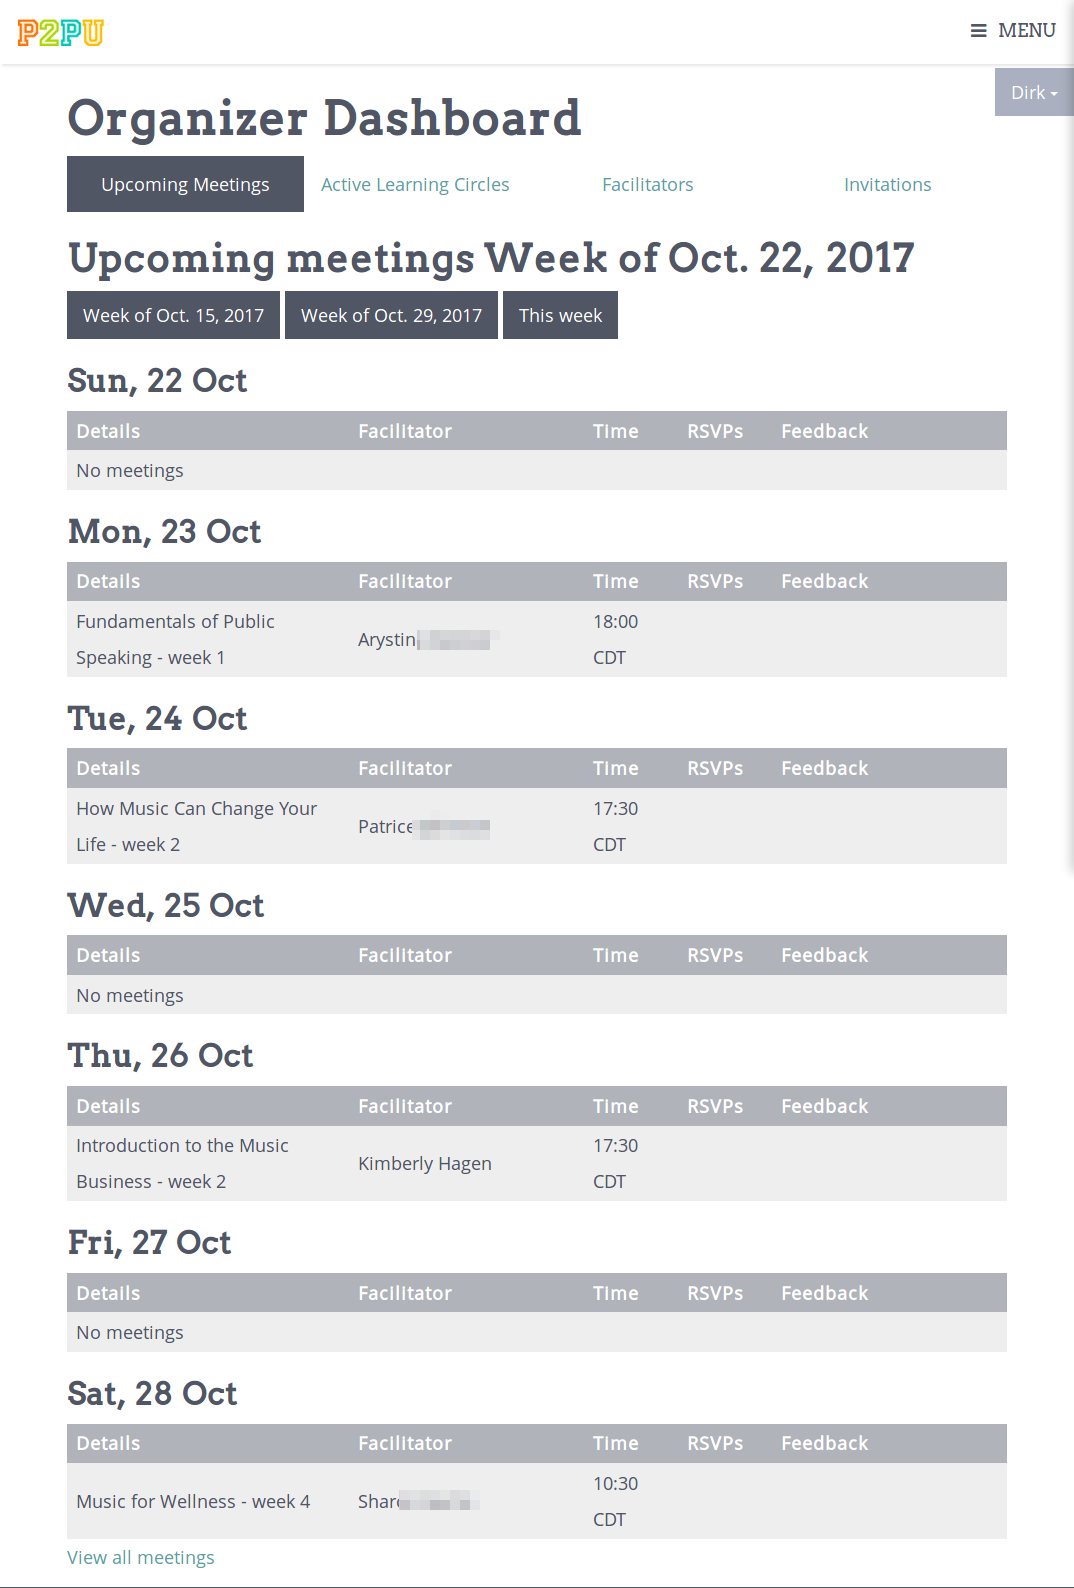
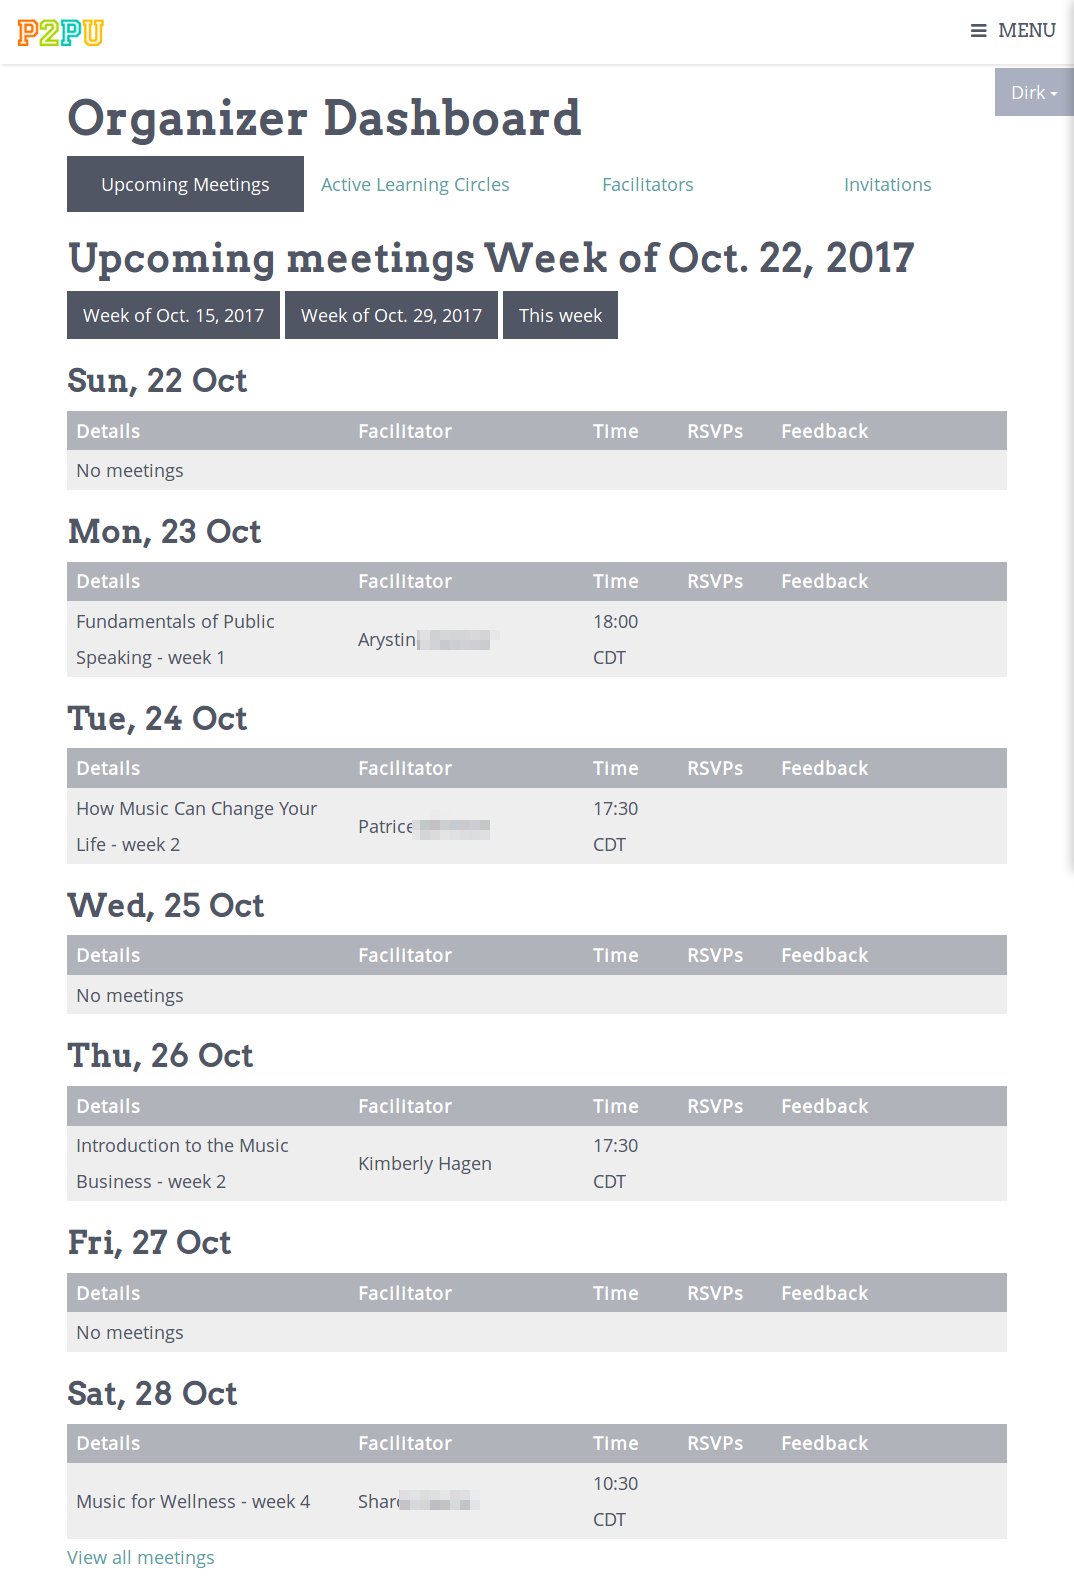
Add missing image and crop upcoming meetings image

diff --git a/docs/organizer.rst b/docs/organizer.rst
@@ -24,6 +24,8 @@ The **facilitators** view gives you a list of all the facilitators that are curr
 
 The **invitations** view shows you a list of everyone who was invited to join your team, this is also where you will invite new facilitators.
 
+.. image:: _static/organizer-dashboard-invitations.png
+
 Adding facilitators
 -------------------
 
